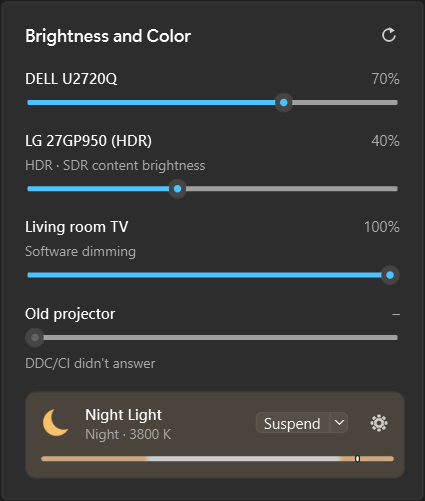
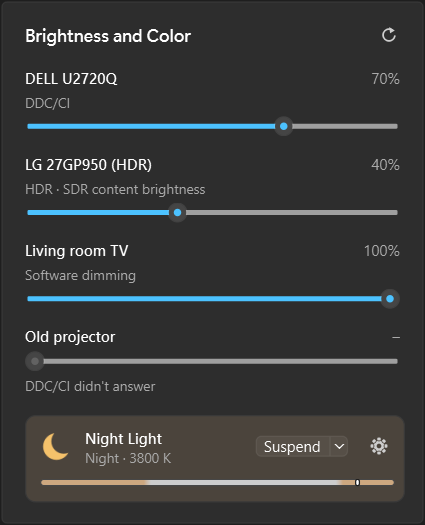
Panel: every controllable display says how its brightness is changed
Captions showed only for SDR content brightness and software dimming; DDC/CI monitors and laptop panels said nothing. CHANNEL_CAPTIONS gives the backlight's way in (DDC/CI, Laptop brightness), with a tooltip each.

diff --git a/nightlight/ui/widgets.py b/nightlight/ui/widgets.py
@@ -39,7 +39,18 @@ BRIGHTNESS_THROTTLE_MS = 100
 SECONDARY_FADE_LIGHT = 0.28
 SECONDARY_FADE_DARK = 0.38
 NOT_SUPPORTED = "No brightness control"
-# Said under the name when brightness isn't the display's own backlight.
+# Said under every controllable display's name: how its brightness is changed.
+# The display's own backlight, by the way in (MonitorInfo.channel)...
+CHANNEL_CAPTIONS = {
+    "ddc": ("DDC/CI", "Changes the monitor's own brightness setting (its backlight) over DDC/CI, as its buttons do."),
+    "ddc-high-level": ("DDC/CI", ("Changes the monitor's own brightness setting (its backlight) over DDC/CI, through Windows' "
+                                  "monitor brightness call: this monitor didn't answer the direct one.")),
+    "linux-ddc": ("DDC/CI", "Changes the monitor's own brightness setting (its backlight) over DDC/CI."),
+    "wmi": ("Laptop brightness", "The built-in display's backlight, as the laptop's brightness keys and Windows' slider set it."),
+    "kde": ("KDE Plasma", "Through KDE Plasma's own brightness control."),
+    "fake": ("Simulated", "A display simulated for development."),
+}
+# ...or, when it isn't the backlight, by the kind of control (MonitorInfo.control).
 CONTROL_CAPTIONS = {
     "sdr": ("HDR · SDR content brightness", "HDR is on, so this sets Windows' brightness for SDR content, like Settings > Display > HDR."),
     "software": (
@@ -224,7 +235,8 @@ class MonitorBrightness(QWidget):
         set_font(title, weight=QFont.Weight.DemiBold)
         top.addWidget(title, 1)
         layout.addLayout(top)
-        if caption := CONTROL_CAPTIONS.get(info.control):
+        caption = CONTROL_CAPTIONS.get(info.control) or (CHANNEL_CAPTIONS.get(info.channel) if info.supported else None)
+        if caption:
             text, tooltip = caption
             label = SecondaryLabel(text, scale=0.88)
             label.setToolTip(tooltip)

diff --git a/tests/test_flyout.py b/tests/test_flyout.py
@@ -183,7 +183,12 @@ def test_displays_say_how_their_brightness_is_controlled():
         row = MonitorBrightness(info, DisplayState(info, Status.OK, observed=50))  # kept alive while its labels are read
         return [label.text() for label in row.findChildren(SecondaryLabel) if label.text() not in ("…", "50%", "")]
 
-    assert captions(MonitorInfo(0, "DELL", True)) == []
+    # Every display says how: the screenshots showed it for HDR and dimmed
+    # displays only, and a DDC/CI monitor or laptop panel said nothing.
+    assert captions(MonitorInfo(0, "DELL", True, channel="ddc")) == ["DDC/CI"]
+    assert captions(MonitorInfo(0, "DELL", True, channel="ddc-high-level")) == ["DDC/CI"]
+    assert captions(MonitorInfo(0, "Built-in display", True, internal=True, channel="wmi")) == ["Laptop brightness"]
+    assert "DDC/CI" not in captions(MonitorInfo(0, "Old", False, reason="DDC/CI didn't answer", channel="ddc"))  # says why instead
     assert captions(MonitorInfo(0, "HDR monitor", True, control="sdr")) == ["HDR · SDR content brightness"]
     assert captions(MonitorInfo(0, "TV", True, control="software", minimum=20)) == ["Software dimming"]
     assert MonitorBrightness(MonitorInfo(0, "TV", True, control="software", minimum=20)).slider.minimum() == 20

diff --git a/CHANGELOG.md b/CHANGELOG.md
@@ -36,6 +36,7 @@ Changes in each version of Winlight, newest first. Version numbers follow the sc
 - After waking, a monitor that came back a few seconds late could go unseen for minutes. Once every display that answered before sleep had answered again, Winlight stopped checking, and also dropped the checks the displays coming on had asked for. If none had answered before sleep (one had just stopped), it stopped after two checks. Now it keeps the other checks, and checks for the full two minutes when there was nothing to wait for. Found in a tester's log.
 - Waking was sometimes not noticed as a wake, when Windows synced the clock as it woke (which it often does) before Winlight next looked: the jump in time was put down to the clock change. Turning the displays on still worked, but the longer checks after waking didn't run, and a 6-hour sleep was logged as "going to sleep … but it is still running". Winlight now also measures time with a clock that counts sleep and that changing the clock doesn't move. Found in a tester's log.
 - In the log and Report a Problem's "Last wake from sleep", checks left over when the PC slept again joined the previous wake's report ("After waking +29100 s", "detection took 1533.8 s"). The report now ends there.
+- The panel said how a display's brightness is changed only for HDR displays and displays dimmed through their colors; monitors over DDC/CI and laptop panels, most displays, said nothing. Every display that can be changed now says how under its name ("DDC/CI", "Laptop brightness", "HDR · SDR content brightness", "Software dimming"), with more in its tooltip.
 - Changing the theme in Settings left the quieter text (the tagline under Winlight's name, page subtitles, every setting's description) in the old theme's grey until a restart: dark grey on the dark background, nearly invisible. It follows the theme at once now, and so do the display icons in Settings > Displays.
 - A display whose call returned at the very moment Winlight gave up waiting for it (after 5 seconds) was left "Not responding" until Winlight restarted, and every detection skipped it. Found by running the tests in parallel.
 - "Accepted 100% but reports 54%; it may ignore DDC/CI changes" was logged once per run. Winlight runs for weeks, so later changes the monitor ignored didn't show. It is now logged again after an hour.
